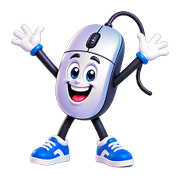
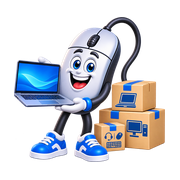
Nouvelle mascotte et icônes propres à l'application
Image fournie par la direction : remplace la mascotte générique
(connexion, contact, mot de passe oublié, onglet central) et les icônes
(PWA 192/512, apple-icon, favicon). Accessoire animé de la page de
connexion retiré : l'image porte déjà le thème de l'app.

diff --git a/src/components/space/BottomNav.tsx b/src/components/space/BottomNav.tsx
@@ -100,7 +100,7 @@ export function BottomNav() {
           aria-label="Discussion des commandes"
           className="bg-gradient-espace -mt-6 flex h-14 w-14 items-center justify-center rounded-full border-4 border-white shadow-lg shadow-blue-900/20"
         >
-          <Image src="/images/mascotte.png" alt="" width={64} height={64} className="h-9 w-9 object-contain" />
+          <Image src="/images/mascotte.png" alt="" width={96} height={96} className="h-11 w-11 object-contain" />
         </Link>
       </div>
 

diff --git a/src/components/auth/kit/themeAuth.ts b/src/components/auth/kit/themeAuth.ts
@@ -47,7 +47,7 @@ export const THEME_AUTH: ThemeAuth = {
   "accentOmbre": "rgba(5,150,105,0.38)",
   "decor": "colis",
   "posture": "flotte",
-  "accessoire": "colis",
+  "accessoire": "aucun",
   "confettis": [
     "#059669",
     "#34d399",
